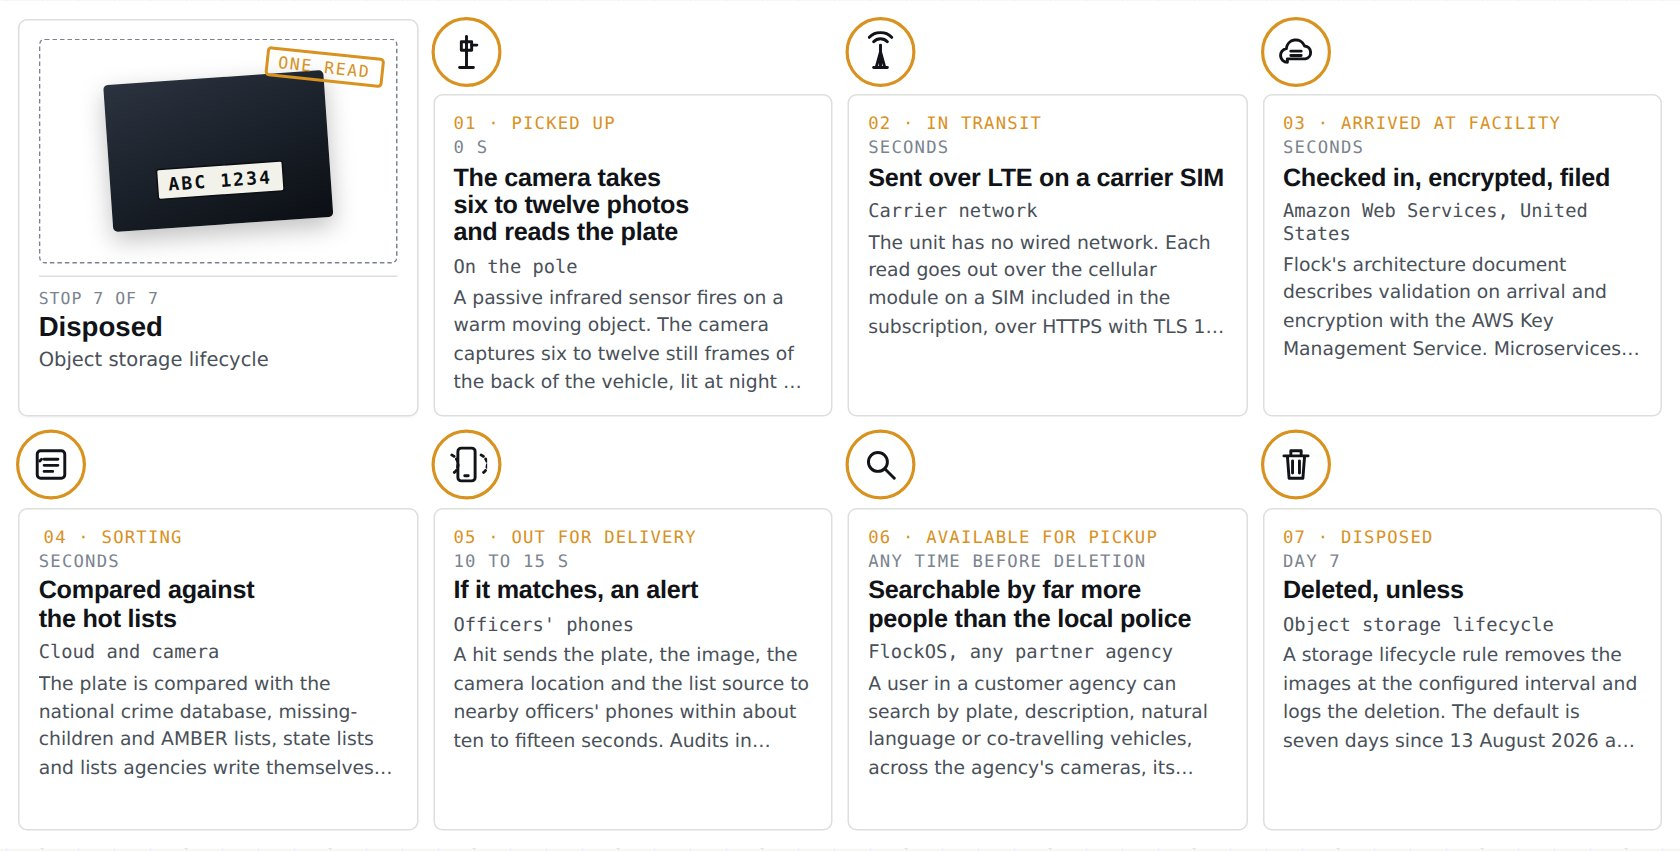
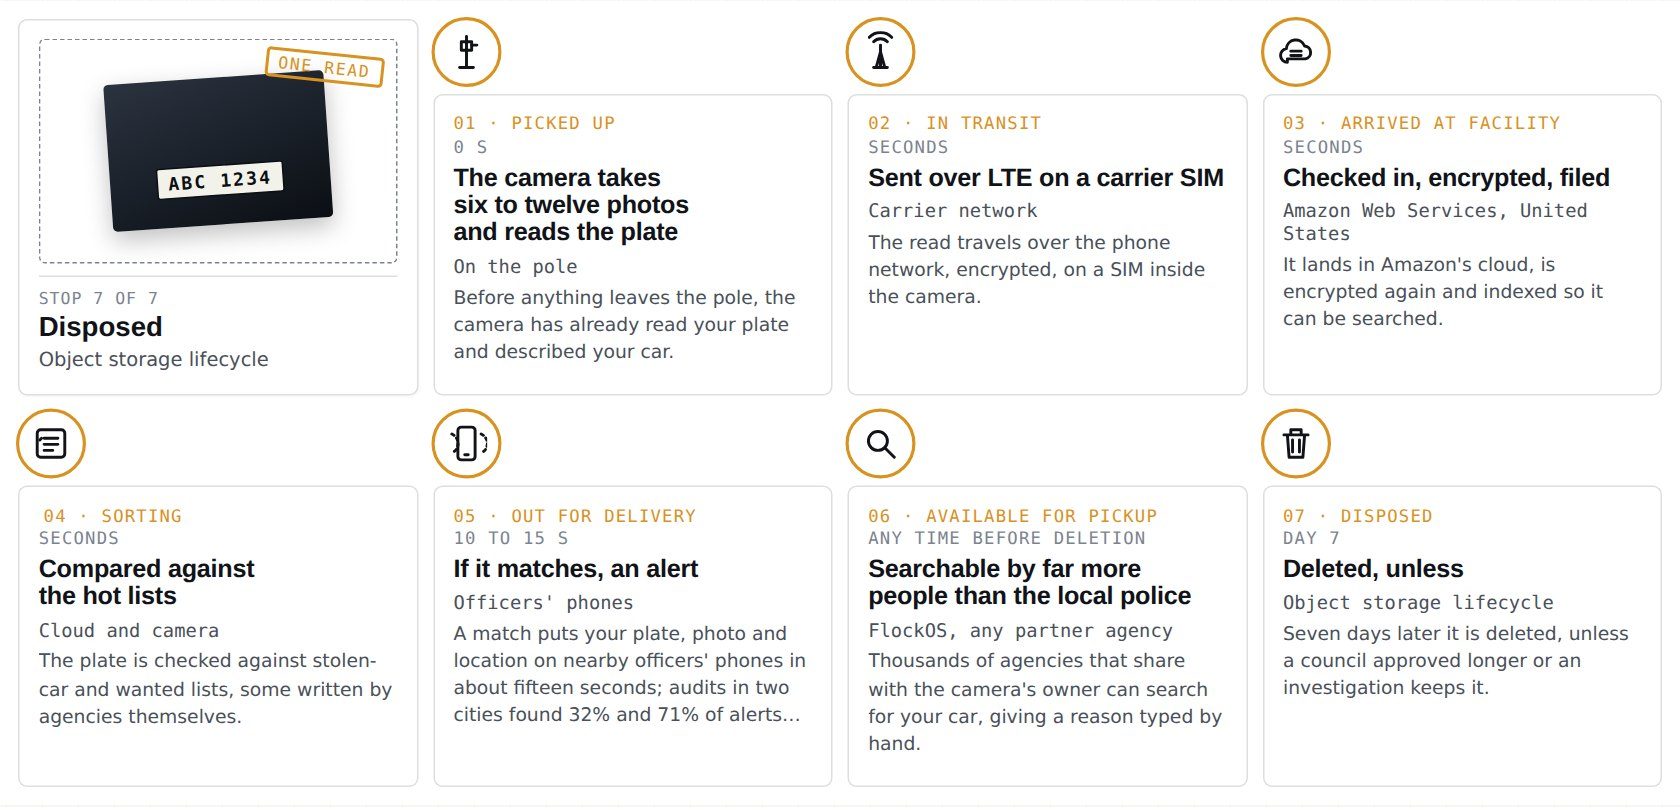
Journey stops show one sentence each; details fold under a toggle
Each stop card now shows the status and time, the title, one plain sentence and who can open the package.
The paragraph, the package contents, the data-path links and the sources fold under a Details toggle, so
the page reads as seven captions. The current stop follows the card under the header and the scroll
position, and reaches Disposed at the end of the page on every screen size.

diff --git a/src/journey.ts b/src/journey.ts
@@ -1,10 +1,11 @@
 /**
  * The journey page: one photograph followed like a parcel through seven stops. A sticky slip on the left shows the
- * parcel and the stop the reader has scrolled to; the stops on the right are marked reached as they pass.
+ * parcel and the stop the reader has scrolled to; the stops on the right are marked reached as they pass. Each card
+ * shows one sentence and who can open the package; the paragraph, contents, data-path links and sources fold under Details.
  */
 import { journey, hopById } from "./content";
 import { cite, escape } from "./ui/cite";
-import { el, nn, reduced } from "./ui/common";
+import { el, nn, reduced, topbarHeight } from "./ui/common";
 import { ROOT } from "./lib/base";
 
 const ICONS: Record<string, string> = {
@@ -55,19 +56,25 @@ export function buildJourney(host: HTMLElement): void {
         </div>
         <h2>${escape(s.title)}</h2>
         <div class="where">${escape(s.where)}</div>
-        <p>${escape(s.body)}</p>
-        <dl class="kv">
-          <dt>In the package</dt><dd><ul>${s.packed.map((p) => `<li>${escape(p)}</li>`).join("")}</ul></dd>
-          <dt>Who can open it</dt><dd>${escape(s.opens)}</dd>
-          <dt>Data path</dt><dd>${s.hops.map((h) => { const hop = hopById.get(h); return hop ? `<a href="${ROOT}data/#stage-${hop.n}">stage ${nn(hop.n)}, ${escape(hop.title)}</a>` : ""; }).filter(Boolean).join(" · ")}</dd>
-        </dl>
+        <p class="line">${escape(s.line)}</p>
+        <p class="opens"><span class="mono">Who can open it</span> ${escape(s.opens)}</p>
+        <details class="more">
+          <summary><span class="mono">Details</span></summary>
+          <div class="more-body">
+            <p>${escape(s.body)}</p>
+            <dl class="kv">
+              <dt>In the package</dt><dd><ul>${s.packed.map((p) => `<li>${escape(p)}</li>`).join("")}</ul></dd>
+              <dt>Data path</dt><dd>${s.hops.map((h) => { const hop = hopById.get(h); return hop ? `<a href="${ROOT}data/#stage-${hop.n}">stage ${nn(hop.n)}, ${escape(hop.title)}</a>` : ""; }).filter(Boolean).join(" · ")}</dd>
+            </dl>
+          </div>
+        </details>
       </div>`;
-    li.querySelector(".stop-body")!.appendChild(cite(s.sources, 3));
+    li.querySelector(".more-body")!.appendChild(cite(s.sources, 3));
     list.appendChild(li);
   });
   host.appendChild(list);
 
-  // Mark stops reached as they scroll past the middle of the viewport; the slip follows.
+  // Mark stops reached as they scroll under the header; the slip follows.
   const items = [...list.querySelectorAll<HTMLElement>(".stop")];
   const routeItems = [...slip.querySelectorAll<HTMLElement>(".slip-route li")];
   const setCurrent = (i: number) => {
@@ -78,11 +85,17 @@ export function buildJourney(host: HTMLElement): void {
     document.getElementById("slip-status")!.textContent = stops[i]!.status;
     document.getElementById("slip-where")!.textContent = stops[i]!.where;
   };
+  // The current stop is the last one whose card top has passed a line just under the header; at the end of the page it
+  // is the last stop, so short cards on a tall screen still reach Disposed.
   const update = () => {
-    const line = innerHeight * 0.55;
+    const line = topbarHeight() + 160;
     let cur = 0;
     items.forEach((it, k) => { if (it.getBoundingClientRect().top < line) cur = k; });
-    setCurrent(cur);
+    // On a tall screen the page is short, so the scroll position also advances the stop; the end of the page is the last stop.
+    const range = document.documentElement.scrollHeight - innerHeight;
+    if (range > 0) cur = Math.max(cur, Math.round((scrollY / range) * (items.length - 1)));
+    if (scrollY + innerHeight >= document.documentElement.scrollHeight - 4) cur = items.length - 1;
+    setCurrent(Math.min(cur, items.length - 1));
   };
   addEventListener("scroll", update, { passive: true });
   addEventListener("resize", update);

diff --git a/src/document.css b/src/document.css
@@ -182,6 +182,17 @@ body:not([data-page="home"]) main { gap: 2rem; padding-top: calc(var(--topbar-h)
 .stop-body h2 { font-size: 1.3rem; }
 .stop-body .where { font: 500 12.5px var(--mono); color: var(--ink-2); }
 .stop-body p { margin: 0; font-size: 14px; }
+.stop-body .line { font-size: 15.5px; line-height: 1.45; }
+.stop-body .opens { font-size: 13.5px; color: var(--ink-2); }
+.stop-body .opens .mono { font-size: 11px; letter-spacing: .05em; text-transform: uppercase; color: var(--ink-3); margin-right: .4rem; }
+.more { margin-top: .2rem; }
+.more summary { list-style: none; cursor: pointer; display: inline-flex; align-items: center; gap: .4rem; font: 500 12px var(--mono); color: var(--ink-2); border: 1px solid var(--line); border-radius: 999px; padding: .3rem .7rem; }
+.more summary::-webkit-details-marker { display: none; }
+.more summary::before { content: "+"; font-weight: 600; }
+.more[open] summary::before { content: "−"; }
+.more summary:hover { color: var(--ink); border-color: var(--ink-3); }
+.more summary:focus-visible { outline: 2px solid var(--cyan); outline-offset: 2px; }
+.more-body { display: grid; gap: .5rem; margin-top: .7rem; padding-top: .7rem; border-top: 1px solid var(--line); }
 .stop-body .kv { margin: .3rem 0 0; }
 .stop-body .kv ul { margin: 0; padding-left: 1.1rem; }
 .stop-body .kv li { margin: 0 0 .15rem; }

diff --git a/tests/smoke.spec.ts b/tests/smoke.spec.ts
@@ -97,10 +97,17 @@ test("every content page loads with its content, the pager and citations that re
   await ready(page);
   await instant(page);
   await expect(page.locator("#slip-status")).toHaveText("Picked up");
-  await page.locator("#search").scrollIntoViewIfNeeded();
-  await page.evaluate(() => scrollBy(0, 200));
-  await expect(page.locator("#slip-status")).toHaveText("Available for pickup");
-  await expect(page.locator(".stop.is-reached")).toHaveCount(6);
+  await page.evaluate(() => scrollTo(0, document.documentElement.scrollHeight));
+  await expect(page.locator("#slip-status")).toHaveText("Disposed");
+  await expect(page.locator(".stop.is-reached")).toHaveCount(7);
+  // each card shows one sentence; the paragraph, contents and sources fold under Details
+  await expect(page.locator(".stop details[open]")).toHaveCount(0);
+  await expect(page.locator("#search .cite a").first()).toBeHidden();
+  await page.locator("#search summary").click();
+  await expect(page.locator("#search details")).toHaveAttribute("open", "");
+  await expect(page.locator("#search .cite a").first()).toBeVisible();
+  await expect(page.locator("#search .kv dt").first()).toHaveText("In the package");
+  await expect(page.locator("#slip-status")).toHaveText("Disposed");
   // pager order
   await go(page, "/deployments/");
   await ready(page);

diff --git a/src/content/schema.ts b/src/content/schema.ts
@@ -90,7 +90,7 @@ export const OverviewFile = z.object({
 
 export const JourneyFile = z.object({
   intro: z.object({ eyebrow: z.string(), title: z.string(), lede: z.string(), parcel: z.object({ label: z.string(), plate: z.string(), contents: z.string() }) }),
-  stops: z.array(z.object({ id: z.string(), status: z.string(), where: z.string(), when: z.string(), icon: z.enum(["pole", "tower", "cloud", "list", "phone", "search", "bin"]), title: z.string(), body: z.string(), packed: z.array(z.string()), opens: z.string(), hops: z.array(z.string()), sources: z.array(z.string()).min(1) })),
+  stops: z.array(z.object({ id: z.string(), status: z.string(), where: z.string(), when: z.string(), icon: z.enum(["pole", "tower", "cloud", "list", "phone", "search", "bin"]), title: z.string(), line: z.string(), body: z.string(), packed: z.array(z.string()), opens: z.string(), hops: z.array(z.string()), sources: z.array(z.string()).min(1) })),
 }).passthrough();
 
 export const StillsFile = z.object({

diff --git a/README.md b/README.md
@@ -16,7 +16,7 @@ Ten pages. The home page is a summary: the title and lede, preview images of the
 | Pole (`pole/`) | Three mount configurations (Flock pole, existing pole, 120 V AC) as cards with the still and the documented facts, and the published field of view |
 | Power (`power/`) | The solar and battery DC path, the AC kit, and the Wing gateway path in which PoE, fiber and SFP modules are used |
 | Data (`data/`) | One detection traced through twelve stages from capture to deletion, each with a diagram, the processing location, transport, storage, retention and payload; retention presets; a network search example reproducing the counts from one documented query |
-| Journey (`journey/`) | One photograph followed like a parcel through seven stops from the pole to deletion: what is in the package at each stop, who can open it, how long it takes, and the data-path stages and sources behind each |
+| Journey (`journey/`) | One photograph followed like a parcel through seven stops from the pole to deletion: what is in the package at each stop, who can open it, how long it takes, and, folded under a toggle on each stop, the details, the data-path stages and the sources behind it |
 | Claims (`claims/`) | The product line (Falcon, Flex, Sparrow, Condor, Raven, Wing, Alpha, Nova) as a table, then twenty-one common claims, each with the documented position, the product or setting it applies to, sources, and a link to the related component or data stage |
 | Economics (`economics/`) | Items included in and excluded from the annual fee, list prices, the 2021 and 2026 fee schedules, price history, installation workflow and responsibilities, permitting by location type, ownership and contract terms, scale and public funding, with a priced-pole figure |
 | Sources (`sources/`) | All sources grouped by origin, with the date each was last checked |
